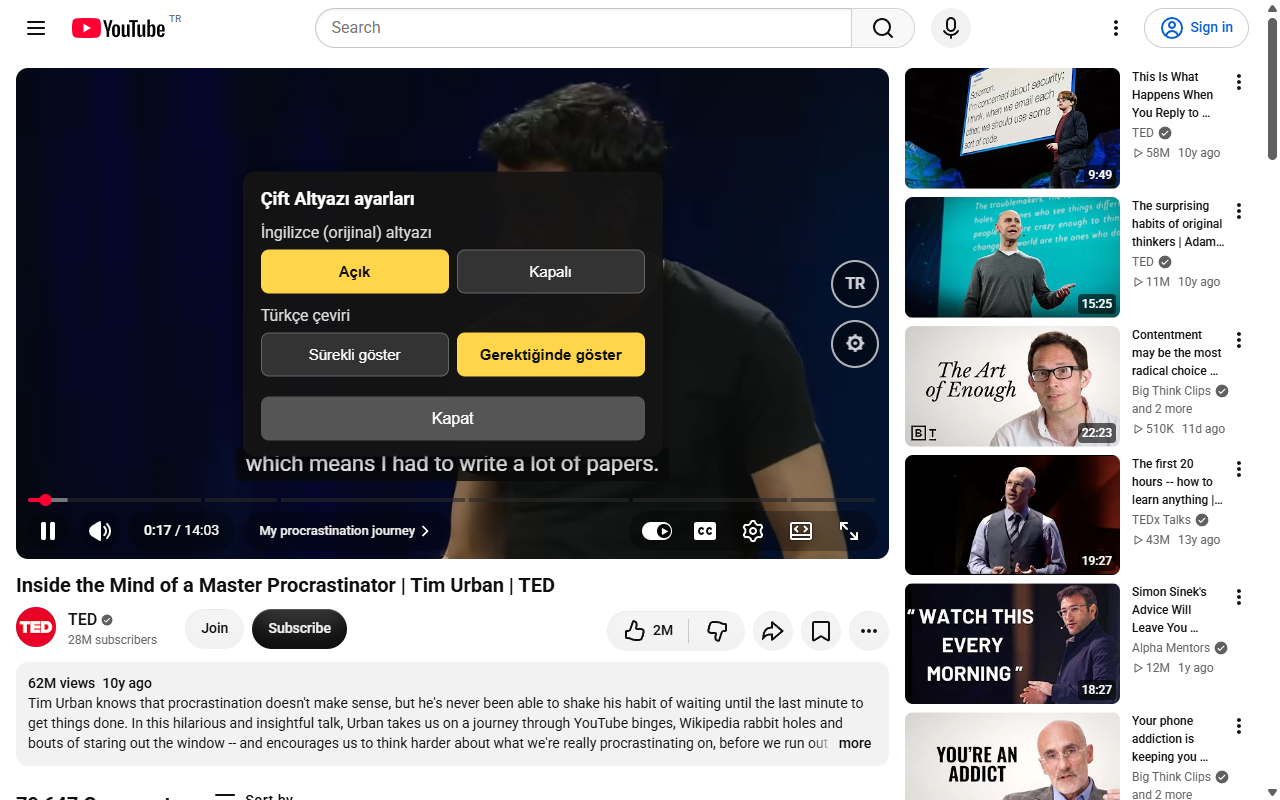
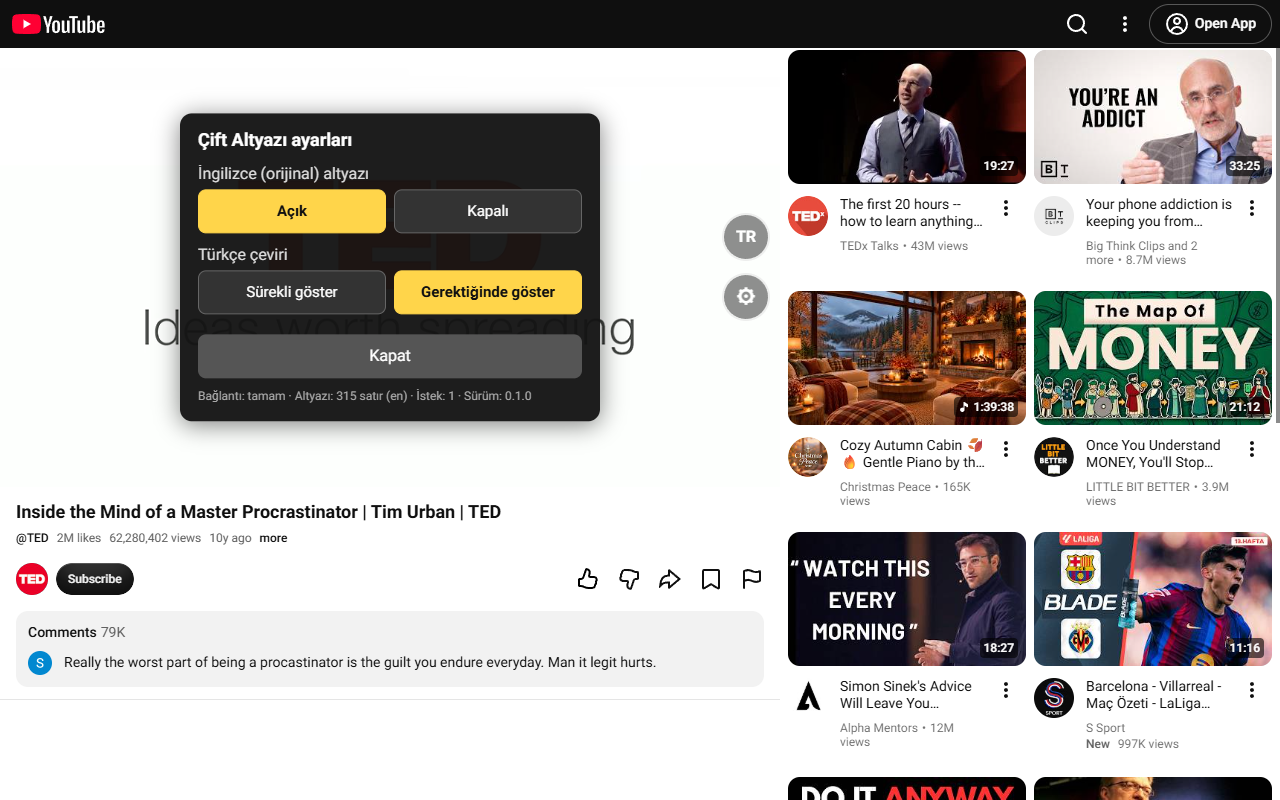
Ayarlar paneline sorun giderme için durum satırı
Bağlantı, altyazı satır sayısı, çeviri ilerlemesi, istek sayısı ve sürüm
gösteriliyor; tablette sorun olursa bu satır okunarak teşhis yapılabilir.

diff --git a/cift-altyazi.user.js b/cift-altyazi.user.js
@@ -25,6 +25,7 @@
 
   const SENTENCE_END = /[.?!…。！？]["'”’)\]]*$/;
   const DEFAULT_SETTINGS = Object.freeze({ showOriginal: true, trMode: 'onDemand' });
+  const VERSION = '0.1.0'; // @version ile aynı tutun
 
   /** json3 altyazı metnini satırlara çevirir: [{ start, end, text }] (ms). */
   function parseJson3(text) {
@@ -592,11 +593,28 @@
       const upd2 = mkRow('Türkçe çeviri', [['always', 'Sürekli göster'], ['onDemand', 'Gerektiğinde göster']],
         () => settings.trMode, (v) => saveSettings({ trMode: v }));
       const close = onTap(el('button', 'ca-close', 'Kapat'), togglePanel);
-      panel.append(close);
+      const diag = el('div', 'ca-diag');
+      panel.append(close, diag);
 
       const note = el('div'); note.id = 'ca-note'; note.hidden = true;
       root.append(box, ctrl, panel, note);
-      return { root, box, lineEn, lineTr, ctrl, trBtn, gearBtn, panel, note, updRows: () => { upd1(); upd2(); } };
+      return { root, box, lineEn, lineTr, ctrl, trBtn, gearBtn, panel, note, diag, updRows: () => { upd1(); upd2(); } };
+    }
+
+    /** Sorun giderme için kısa durum satırı (ayarlar panelinin altında). */
+    function diagText() {
+      const parts = [];
+      parts.push('Bağlantı: ' + (bridgeReady ? 'tamam' : 'YOK'));
+      const statusTr = { ok: 'yüklendi', loading: 'yükleniyor', fail: 'yüklenemedi', none: 'videoda yok', turkish: 'video Türkçe' };
+      parts.push('Altyazı: ' + (cur.cues.length ? cur.cues.length + ' satır (' + cur.lang + ')' : (statusTr[cur.status] || 'bekleniyor')));
+      if (settings.trMode === 'always' && cur.cues.length) {
+        const done = cur.tr ? cur.tr.filter((x) => typeof x === 'string').length : 0;
+        parts.push('Çeviri: ' + done + '/' + cur.cues.length);
+      }
+      const seen = debug.events.filter((e) => e.type === 'seen').length;
+      parts.push('İstek: ' + seen);
+      parts.push('Sürüm: ' + VERSION);
+      return parts.join(' · ');
     }
 
     function togglePanel() {
@@ -605,7 +623,11 @@
       ui.panel.hidden = !ui.panel.hidden;
       updatePanel();
     }
-    function updatePanel() { if (ui) ui.updRows(); }
+    function updatePanel() {
+      if (!ui) return;
+      ui.updRows();
+      ui.diag.textContent = diagText();
+    }
 
     function showNote(text) {
       pendingNote = text;
@@ -676,7 +698,10 @@
     document.addEventListener('play', (e) => { if (od.open && e.target === getVideo()) closeOnDemand(false); }, true);
     document.addEventListener('seeking', (e) => { if (od.open && e.target === getVideo()) closeOnDemand(false); }, true);
 
-    setInterval(() => render(false), 150);
+    setInterval(() => {
+      render(false);
+      if (ui && !ui.panel.hidden) ui.diag.textContent = diagText();
+    }, 150);
 
     GM_registerMenuCommand('Çift Altyazı ayarları', () => { ensureUi(); if (ui && ui.panel.hidden) togglePanel(); });
 
@@ -709,6 +734,7 @@
 .ca-opt{flex:1;min-height:44px;padding:8px 10px;border-radius:8px;border:1px solid #666;background:#333;color:#fff;font-size:15px;cursor:pointer}
 .ca-opt.ca-sel{background:#ffd54a;color:#111;border-color:#ffd54a;font-weight:700}
 .ca-close{margin-top:8px;width:100%;min-height:44px;border-radius:8px;border:0;background:#555;color:#fff;font-size:16px;cursor:pointer}
+.ca-diag{margin-top:10px;font-size:12px;color:#aaa;line-height:1.4}
 #ca-note{position:absolute;left:10px;top:10px;max-width:70%;background:rgba(0,0,0,.8);color:#fff;padding:6px 10px;border-radius:6px;font-size:14px;line-height:1.4}
 #ca-note[hidden]{display:none}
 html.ca-active .ytp-caption-window-container,html.ca-active #ytp-caption-window-container{display:none!important}

diff --git a/test/core.test.js b/test/core.test.js
@@ -110,3 +110,10 @@ test('normalizeSettings', () => {
   assert.deepEqual(CA.normalizeSettings({ trMode: 'x', showOriginal: 'evet' }), { showOriginal: true, trMode: 'onDemand' });
   assert.deepEqual(CA.normalizeSettings({ trMode: 'always', showOriginal: false }), { showOriginal: false, trMode: 'always' });
 });
+
+test('@version ile VERSION aynı', () => {
+  const src = fs.readFileSync(path.join(__dirname, '..', 'cift-altyazi.user.js'), 'utf8');
+  const meta = src.match(/@version\s+(\S+)/)[1];
+  const code = src.match(/const VERSION = '([^']+)'/)[1];
+  assert.equal(code, meta);
+});
